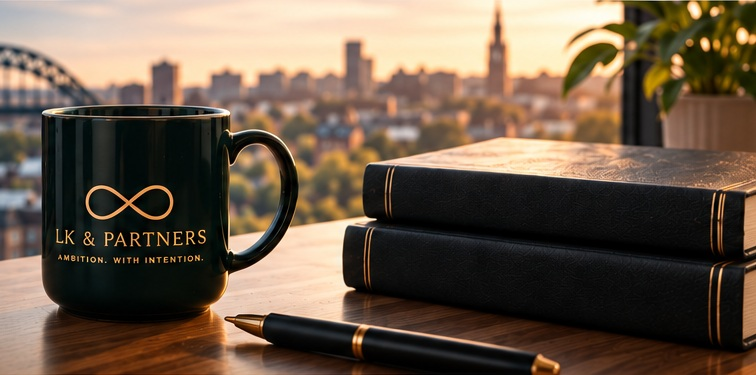
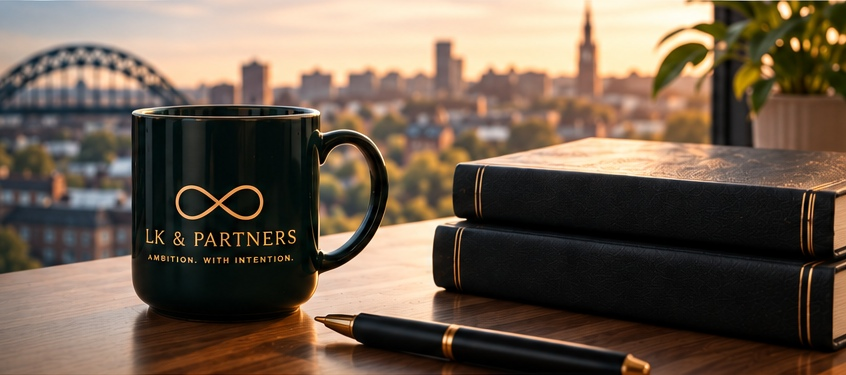
Add files via upload

diff --git a/styles.css b/styles.css
@@ -1,4 +1,6 @@
 
-:root{--green:#073c33;--gold:#e0aa37;--cream:#f5efe4;--ink:#07362f}*{box-sizing:border-box}body{margin:0;background:var(--cream);color:var(--ink);font-family:Arial,sans-serif}a{text-decoration:none;color:inherit}.header{height:82px;background:#fff;display:flex;align-items:center;justify-content:space-between;padding:0 5%;gap:30px}.brand{display:flex;align-items:center;gap:15px}.infinity{font:62px/1 Georgia;color:var(--gold);font-weight:300}.brand span:last-child{display:flex;flex-direction:column}.brand b{font:21px Georgia;letter-spacing:3px;font-weight:500}.brand small{font-size:7px;letter-spacing:4px;margin-top:6px}nav{display:flex;align-items:center;gap:29px;font-size:13px}nav .active{color:#b87e08;border-bottom:2px solid var(--gold);padding:31px 0 27px}.work{background:var(--green);color:#fff;padding:16px 25px}.hero{height:374px;position:relative;overflow:hidden;background:#073c33}.hero-photo{position:absolute;inset:0;background:url('assets/hero.jpg') center/cover no-repeat}.shade{position:absolute;inset:0;background:linear-gradient(90deg,rgba(3,49,42,.98) 0%,rgba(3,49,42,.84) 38%,rgba(3,49,42,.23) 62%,rgba(3,49,42,0) 100%)}.hero-content{position:relative;color:#fff;padding:49px 5%;width:58%;z-index:2}.eyebrow{font-size:12px;letter-spacing:1.7px;color:var(--gold);font-weight:bold}.hero h1{font:54px/.91 Georgia;margin:14px 0 18px}.hero h1 em{font-style:normal;color:#e7b64f}.hero h2{font:25px Georgia;margin:0 0 23px}.four{display:flex;align-items:center;gap:15px;font:16px Georgia}.four i{width:1px;height:25px;background:var(--gold)}.buttons{display:flex;gap:15px;margin-top:22px}.gold,.outline{display:inline-block;padding:14px 30px;font-weight:bold;font-size:14px}.gold{background:#efbd4d;color:#07362f}.outline{border:1px solid #fff;color:#fff}.services{display:grid;grid-template-columns:repeat(3,1fr);background:#fff}.services article{display:grid;grid-template-columns:42% 58%;gap:20px;padding:27px 32px;border-right:1px solid #d8d0c4}.services img{width:100%;height:154px;object-fit:cover}.services h3{font:22px/1.05 Georgia;margin:12px 0}.services p{font-size:14px;line-height:1.45}.services a{font-size:16px;border-bottom:1px solid var(--gold);padding-bottom:4px}.proof{display:grid;grid-template-columns:235px 1fr 185px;gap:18px;padding:18px 3% 20px;background:#f4eee3}.proof-title h2{font:40px/.95 Georgia;margin:12px 0 20px}.proof-title>p:last-child{font-size:12px;line-height:1.45}.quotes{display:grid;grid-template-columns:repeat(3,1fr);gap:10px}.quotes article{background:#fbf8f1;padding:17px;min-height:218px;display:flex;flex-direction:column}.quote{display:grid;grid-template-columns:62px 1fr;gap:13px}.quote img{width:62px;height:62px;border-radius:50%;object-fit:cover}.quote p{font:italic 13px/1.3 Georgia;margin:4px 0}.who{border-top:2px solid var(--gold);padding-top:12px;margin-top:auto;display:flex;flex-direction:column;min-height:58px}.who b{font:18px Georgia}.who span{font:13px Georgia}.proof aside{border-left:1px solid #d7cdbc;padding-left:20px;display:flex;flex-direction:column}.proof aside strong{font:55px Georgia;margin:8px 0}.proof aside>b{font:17px Georgia}.proof aside small{margin-top:auto}.closing{background:var(--green);color:#fff;min-height:98px;padding:15px 3.5%;display:grid;grid-template-columns:1fr 205px 330px;align-items:center;gap:35px}.closing h2{font:30px Georgia;margin:3px 0}.closing p{margin:2px 0;font-size:13px}.closing .gold{text-align:center}.ppp{color:var(--gold);font-size:12px;letter-spacing:1px;display:flex;gap:14px;align-items:center}.ppp i{height:24px;width:1px;background:var(--gold)}footer{background:#fff;padding:20px 4%;font-size:12px}
+:root{--green:#073c33;--gold:#e0aa37;--cream:#f5efe4;--ink:#07362f}*{box-sizing:border-box}body{margin:0;background:var(--cream);color:var(--ink);font-family:Arial,sans-serif}a{text-decoration:none;color:inherit}.header{height:82px;background:#fff;display:flex;align-items:center;justify-content:space-between;padding:0 5%;gap:30px}.brand{display:flex;align-items:center;gap:15px}.infinity{font:62px/1 Georgia;color:var(--gold);font-weight:300}.brand span:last-child{display:flex;flex-direction:column}.brand b{font:21px Georgia;letter-spacing:3px;font-weight:500}.brand small{font-size:7px;letter-spacing:4px;margin-top:6px}nav{display:flex;align-items:center;gap:29px;font-size:13px}nav .active{color:#b87e08;border-bottom:2px solid var(--gold);padding:31px 0 27px}.work{background:var(--green);color:#fff;padding:16px 25px}.hero{height:374px;position:relative;overflow:hidden;background:#073c33}.hero-photo{position:absolute;inset:0;background-color:#073c33;background-image:url('assets/hero.jpg');background-repeat:no-repeat;background-size:auto 100%;background-position:right center}.shade{position:absolute;inset:0;background:linear-gradient(90deg,rgba(3,49,42,.98) 0%,rgba(3,49,42,.84) 38%,rgba(3,49,42,.23) 62%,rgba(3,49,42,0) 100%)}.hero-content{position:relative;color:#fff;padding:49px 5%;width:58%;z-index:2}.eyebrow{font-size:12px;letter-spacing:1.7px;color:var(--gold);font-weight:bold}.hero h1{font:54px/.91 Georgia;margin:14px 0 18px}.hero h1 em{font-style:normal;color:#e7b64f}.hero h2{font:25px Georgia;margin:0 0 23px}.four{display:flex;align-items:center;gap:15px;font:16px Georgia}.four i{width:1px;height:25px;background:var(--gold)}.buttons{display:flex;gap:15px;margin-top:22px}.gold,.outline{display:inline-block;padding:14px 30px;font-weight:bold;font-size:14px}.gold{background:#efbd4d;color:#07362f}.outline{border:1px solid #fff;color:#fff}.services{display:grid;grid-template-columns:repeat(3,1fr);background:#fff}.services article{display:grid;grid-template-columns:42% 58%;gap:20px;padding:27px 32px;border-right:1px solid #d8d0c4}.services img{width:100%;height:154px;object-fit:cover}.services h3{font:22px/1.05 Georgia;margin:12px 0}.services p{font-size:14px;line-height:1.45}.services a{font-size:16px;border-bottom:1px solid var(--gold);padding-bottom:4px}.proof{display:grid;grid-template-columns:235px 1fr 185px;gap:18px;padding:18px 3% 20px;background:#f4eee3}.proof-title h2{font:40px/.95 Georgia;margin:12px 0 20px}.proof-title>p:last-child{font-size:12px;line-height:1.45}.quotes{display:grid;grid-template-columns:repeat(3,1fr);gap:10px}.quotes article{background:#fbf8f1;padding:17px;min-height:218px;display:flex;flex-direction:column}.quote{display:grid;grid-template-columns:62px 1fr;gap:13px}.quote img{width:62px;height:62px;border-radius:50%;object-fit:cover}.quote p{font:italic 13px/1.3 Georgia;margin:4px 0}.who{border-top:2px solid var(--gold);padding-top:12px;margin-top:auto;display:flex;flex-direction:column;min-height:58px}.who b{font:18px Georgia}.who span{font:13px Georgia}.proof aside{border-left:1px solid #d7cdbc;padding-left:20px;display:flex;flex-direction:column}.proof aside strong{font:55px Georgia;margin:8px 0}.proof aside>b{font:17px Georgia}.proof aside small{margin-top:auto}.closing{background:var(--green);color:#fff;min-height:98px;padding:15px 3.5%;display:grid;grid-template-columns:1fr 205px 330px;align-items:center;gap:35px}.closing h2{font:30px Georgia;margin:3px 0}.closing p{margin:2px 0;font-size:13px}.closing .gold{text-align:center}.ppp{color:var(--gold);font-size:12px;letter-spacing:1px;display:flex;gap:14px;align-items:center}.ppp i{height:24px;width:1px;background:var(--gold)}footer{background:#fff;padding:20px 4%;font-size:12px}
 .page{max-width:1100px;margin:auto;padding:70px 6%}.page h1{font:52px Georgia}.page h2{font:30px Georgia;margin-top:35px}.page .lead{font:21px/1.5 Georgia}.dark-page{background:var(--green);color:#fff;max-width:none;padding:70px 10%}.contact-grid{display:grid;grid-template-columns:1fr 1fr;gap:60px}.contact-grid label{display:block;margin:18px 0;font-size:13px;font-weight:bold}.contact-grid input,.contact-grid textarea{width:100%;padding:12px;border:0;border-bottom:1px solid #999;background:transparent}
 @media(max-width:900px){nav{display:none}.hero{height:auto;min-height:560px}.hero-content{width:100%;padding:50px 6%}.hero h1{font-size:43px}.services,.quotes,.proof,.closing,.contact-grid{grid-template-columns:1fr}.services article{grid-template-columns:130px 1fr}.proof aside{border-left:0;border-top:1px solid #ddd;padding:20px 0}.ppp{display:none}}
+
+.logo-mark{width:78px;height:48px;color:var(--gold);flex:0 0 auto}

diff --git a/intentional-ambition.html b/intentional-ambition.html
@@ -1,4 +1,4 @@
 <!doctype html><html><head><meta charset="utf-8"><meta name="viewport" content="width=device-width,initial-scale=1"><title>Intentional Ambition | LK & Partners</title><link rel="stylesheet" href="styles.css"></head><body><header class="header">
-<a class="brand" href="index.html"><span class="infinity">∞</span><span><b>LK AND PARTNERS</b><small>AMBITION, WITH INTENTION.</small></span></a>
+<a class="brand" href="index.html"><svg class="logo-mark" viewBox="0 0 160 72" aria-hidden="true"><path d="M78 36C58 7 21 8 14 29c-7 22 23 38 46 19L80 31c20-18 49-18 61-2 12 16-4 37-25 32-13-3-25-15-38-32" fill="none" stroke="currentColor" stroke-width="4" stroke-linecap="round" stroke-linejoin="round"/></svg><span><b>LK AND PARTNERS</b><small>AMBITION, WITH INTENTION.</small></span></a>
 <nav><a href="index.html">Home</a><a href="about.html">About</a><a href="services.html">Our Services</a><a class="active" href="intentional-ambition.html">Intentional Ambition</a><a href="contact.html">Get in Touch</a><a class="work" href="contact.html">Work With Us →</a></nav>
 </header><main><section class="page dark-page"><p class="eyebrow">INTENTIONAL AMBITION</p><h1>Achieve more.<br>Lead better.<br>Live more intentionally.</h1><p class="lead">A practical digital programme for ambitious people who want greater clarity, focus and energy without losing sight of what matters.</p></section><section class="page"><h2>More Clarity. More Focus. More Energy. A More Intentional You.</h2><p>Short, structured daily experiences combine reflection and practical tools to help you notice, understand, explore, choose and act.</p><h2>Ambition, with direction.</h2><p>Intentional Ambition isn't about avoiding sacrifice. It's about choosing what is worth sacrificing for.</p><p>AI supports reflection and challenge where useful; you remain in control of the choices you make.</p><p><a class="gold" href="contact.html">Register Your Interest →</a></p></section></main><footer>© 2026 LK &amp; Partners Limited · <a href="privacy.html">Privacy</a> · <a href="mailto:support@lkandpartners.co.uk">support@lkandpartners.co.uk</a></footer></body></html>

diff --git a/about.html b/about.html
@@ -1,4 +1,4 @@
 <!doctype html><html><head><meta charset="utf-8"><meta name="viewport" content="width=device-width,initial-scale=1"><title>About | LK & Partners</title><link rel="stylesheet" href="styles.css"></head><body><header class="header">
-<a class="brand" href="index.html"><span class="infinity">∞</span><span><b>LK AND PARTNERS</b><small>AMBITION, WITH INTENTION.</small></span></a>
+<a class="brand" href="index.html"><svg class="logo-mark" viewBox="0 0 160 72" aria-hidden="true"><path d="M78 36C58 7 21 8 14 29c-7 22 23 38 46 19L80 31c20-18 49-18 61-2 12 16-4 37-25 32-13-3-25-15-38-32" fill="none" stroke="currentColor" stroke-width="4" stroke-linecap="round" stroke-linejoin="round"/></svg><span><b>LK AND PARTNERS</b><small>AMBITION, WITH INTENTION.</small></span></a>
 <nav><a href="index.html">Home</a><a class="active" href="about.html">About</a><a href="services.html">Our Services</a><a href="intentional-ambition.html">Intentional Ambition</a><a href="contact.html">Get in Touch</a><a class="work" href="contact.html">Work With Us →</a></nav>
 </header><main><section class="page dark-page"><p class="eyebrow">ABOUT LK &amp; PARTNERS</p><h1>Built from leadership.<br>Not just theory.</h1><p class="lead">LK &amp; Partners combines senior leadership experience, executive coaching and practical leadership development to help people achieve more, lead better and live more intentionally.</p></section><section class="page"><h2>Leadership grounded in reality.</h2><p>Our work is shaped by the realities leaders face: responsibility, competing priorities, change, people and performance. We create space for clearer thinking and turn insight into practical action.</p><h2>Practical. Personal. Purposeful.</h2><p>Development is built around the person, team or organisation — not around an off-the-shelf formula.</p></section></main><footer>© 2026 LK &amp; Partners Limited · <a href="privacy.html">Privacy</a> · <a href="mailto:support@lkandpartners.co.uk">support@lkandpartners.co.uk</a></footer></body></html>

diff --git a/contact.html b/contact.html
@@ -1,4 +1,4 @@
 <!doctype html><html><head><meta charset="utf-8"><meta name="viewport" content="width=device-width,initial-scale=1"><title>Get in Touch | LK & Partners</title><link rel="stylesheet" href="styles.css"></head><body><header class="header">
-<a class="brand" href="index.html"><span class="infinity">∞</span><span><b>LK AND PARTNERS</b><small>AMBITION, WITH INTENTION.</small></span></a>
+<a class="brand" href="index.html"><svg class="logo-mark" viewBox="0 0 160 72" aria-hidden="true"><path d="M78 36C58 7 21 8 14 29c-7 22 23 38 46 19L80 31c20-18 49-18 61-2 12 16-4 37-25 32-13-3-25-15-38-32" fill="none" stroke="currentColor" stroke-width="4" stroke-linecap="round" stroke-linejoin="round"/></svg><span><b>LK AND PARTNERS</b><small>AMBITION, WITH INTENTION.</small></span></a>
 <nav><a href="index.html">Home</a><a href="about.html">About</a><a href="services.html">Our Services</a><a href="intentional-ambition.html">Intentional Ambition</a><a class="active" href="contact.html">Get in Touch</a><a class="work" class="active" href="contact.html">Work With Us →</a></nav>
 </header><main><section class="page dark-page"><p class="eyebrow">GET IN TOUCH</p><h1>Let's start a conversation.</h1><p class="lead">Executive coaching, leadership and team development, or Intentional Ambition.</p></section><section class="page contact-grid"><div><h2>Contact</h2><p><a href="mailto:support@lkandpartners.co.uk">support@lkandpartners.co.uk</a></p><p>07960 668788</p></div><form action="mailto:support@lkandpartners.co.uk" method="post" enctype="text/plain"><label>Name<input name="Name"></label><label>Email<input type="email" name="Email"></label><label>How can we help?<textarea rows="6" name="Message"></textarea></label><button class="gold">Send →</button></form></section></main><footer>© 2026 LK &amp; Partners Limited · <a href="privacy.html">Privacy</a> · <a href="mailto:support@lkandpartners.co.uk">support@lkandpartners.co.uk</a></footer></body></html>

diff --git a/services.html b/services.html
@@ -1,4 +1,4 @@
 <!doctype html><html><head><meta charset="utf-8"><meta name="viewport" content="width=device-width,initial-scale=1"><title>Our Services | LK & Partners</title><link rel="stylesheet" href="styles.css"></head><body><header class="header">
-<a class="brand" href="index.html"><span class="infinity">∞</span><span><b>LK AND PARTNERS</b><small>AMBITION, WITH INTENTION.</small></span></a>
+<a class="brand" href="index.html"><svg class="logo-mark" viewBox="0 0 160 72" aria-hidden="true"><path d="M78 36C58 7 21 8 14 29c-7 22 23 38 46 19L80 31c20-18 49-18 61-2 12 16-4 37-25 32-13-3-25-15-38-32" fill="none" stroke="currentColor" stroke-width="4" stroke-linecap="round" stroke-linejoin="round"/></svg><span><b>LK AND PARTNERS</b><small>AMBITION, WITH INTENTION.</small></span></a>
 <nav><a href="index.html">Home</a><a href="about.html">About</a><a class="active" href="services.html">Our Services</a><a href="intentional-ambition.html">Intentional Ambition</a><a href="contact.html">Get in Touch</a><a class="work" href="contact.html">Work With Us →</a></nav>
 </header><main><section class="page dark-page"><p class="eyebrow">OUR SERVICES</p><h1>Development built around people and impact.</h1></section><section class="page"><h2 id="coaching">Executive Coaching</h2><p>One-to-one coaching for ambitious leaders who want to be more effective, fulfilled and intentional.</p><h2 id="teams">Leadership &amp; Team Development</h2><p>Bespoke programmes that build stronger leaders, higher-performing teams and healthier cultures.</p><h2>Intentional Ambition</h2><p>A practical digital programme to help you gain clarity, focus and momentum in your leadership and life.</p><p><a class="gold" href="contact.html">Start a Conversation →</a></p></section></main><footer>© 2026 LK &amp; Partners Limited · <a href="privacy.html">Privacy</a> · <a href="mailto:support@lkandpartners.co.uk">support@lkandpartners.co.uk</a></footer></body></html>

diff --git a/privacy.html b/privacy.html
@@ -1,4 +1,4 @@
 <!doctype html><html><head><meta charset="utf-8"><meta name="viewport" content="width=device-width,initial-scale=1"><title>Privacy | LK & Partners</title><link rel="stylesheet" href="styles.css"></head><body><header class="header">
-<a class="brand" href="index.html"><span class="infinity">∞</span><span><b>LK AND PARTNERS</b><small>AMBITION, WITH INTENTION.</small></span></a>
+<a class="brand" href="index.html"><svg class="logo-mark" viewBox="0 0 160 72" aria-hidden="true"><path d="M78 36C58 7 21 8 14 29c-7 22 23 38 46 19L80 31c20-18 49-18 61-2 12 16-4 37-25 32-13-3-25-15-38-32" fill="none" stroke="currentColor" stroke-width="4" stroke-linecap="round" stroke-linejoin="round"/></svg><span><b>LK AND PARTNERS</b><small>AMBITION, WITH INTENTION.</small></span></a>
 <nav><a href="index.html">Home</a><a href="about.html">About</a><a href="services.html">Our Services</a><a href="intentional-ambition.html">Intentional Ambition</a><a href="contact.html">Get in Touch</a><a class="work" href="contact.html">Work With Us →</a></nav>
 </header><main><section class="page"><p class="eyebrow">LK &amp; PARTNERS</p><h1>Privacy Policy</h1><p>This page should be reviewed against the final live website's hosting, analytics, cookies and contact-form arrangements before publication.</p><h2>Information you provide</h2><p>We may receive information you choose to provide when contacting us, including your name, email address, organisation and enquiry.</p><h2>How it is used</h2><p>Information supplied in an enquiry is used to respond to you and communicate about the services you have asked about.</p><h2>Contact</h2><p>Privacy enquiries: support@lkandpartners.co.uk</p></section></main><footer>© 2026 LK &amp; Partners Limited · <a href="privacy.html">Privacy</a> · <a href="mailto:support@lkandpartners.co.uk">support@lkandpartners.co.uk</a></footer></body></html>

diff --git a/index.html b/index.html
@@ -1,5 +1,5 @@
 <!doctype html><html lang="en"><head><meta charset="utf-8"><meta name="viewport" content="width=device-width,initial-scale=1"><title>LK & Partners | Executive Coaching & Leadership Development</title><link rel="stylesheet" href="styles.css"></head><body><header class="header">
-<a class="brand" href="index.html"><span class="infinity">∞</span><span><b>LK AND PARTNERS</b><small>AMBITION, WITH INTENTION.</small></span></a>
+<a class="brand" href="index.html"><svg class="logo-mark" viewBox="0 0 160 72" aria-hidden="true"><path d="M78 36C58 7 21 8 14 29c-7 22 23 38 46 19L80 31c20-18 49-18 61-2 12 16-4 37-25 32-13-3-25-15-38-32" fill="none" stroke="currentColor" stroke-width="4" stroke-linecap="round" stroke-linejoin="round"/></svg><span><b>LK AND PARTNERS</b><small>AMBITION, WITH INTENTION.</small></span></a>
 <nav><a class="active" href="index.html">Home</a><a href="about.html">About</a><a href="services.html">Our Services</a><a href="intentional-ambition.html">Intentional Ambition</a><a href="contact.html">Get in Touch</a><a class="work" href="contact.html">Work With Us →</a></nav>
 </header>
 <main>
